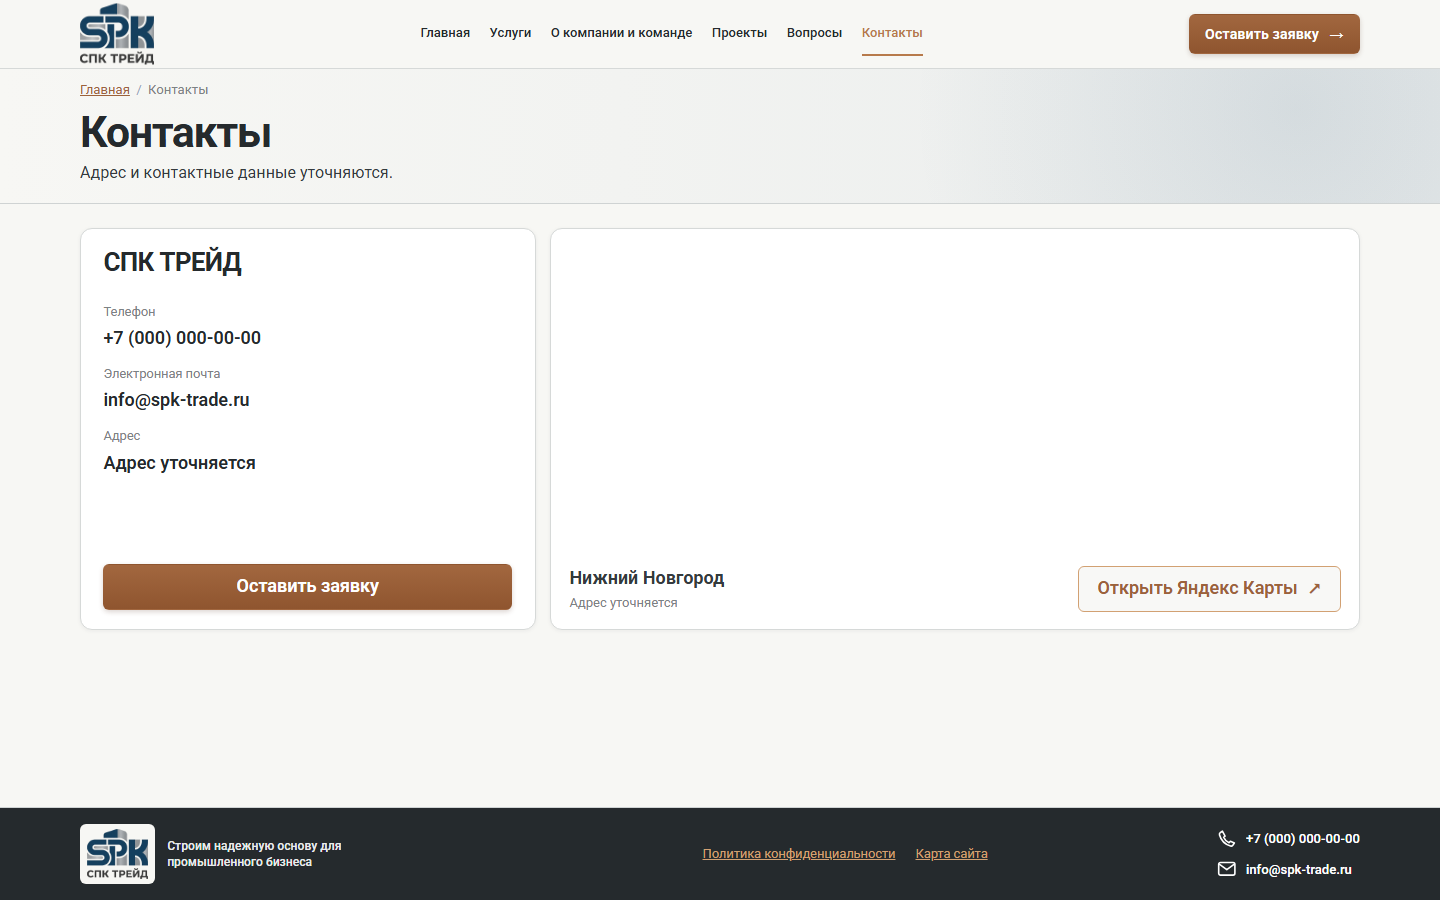
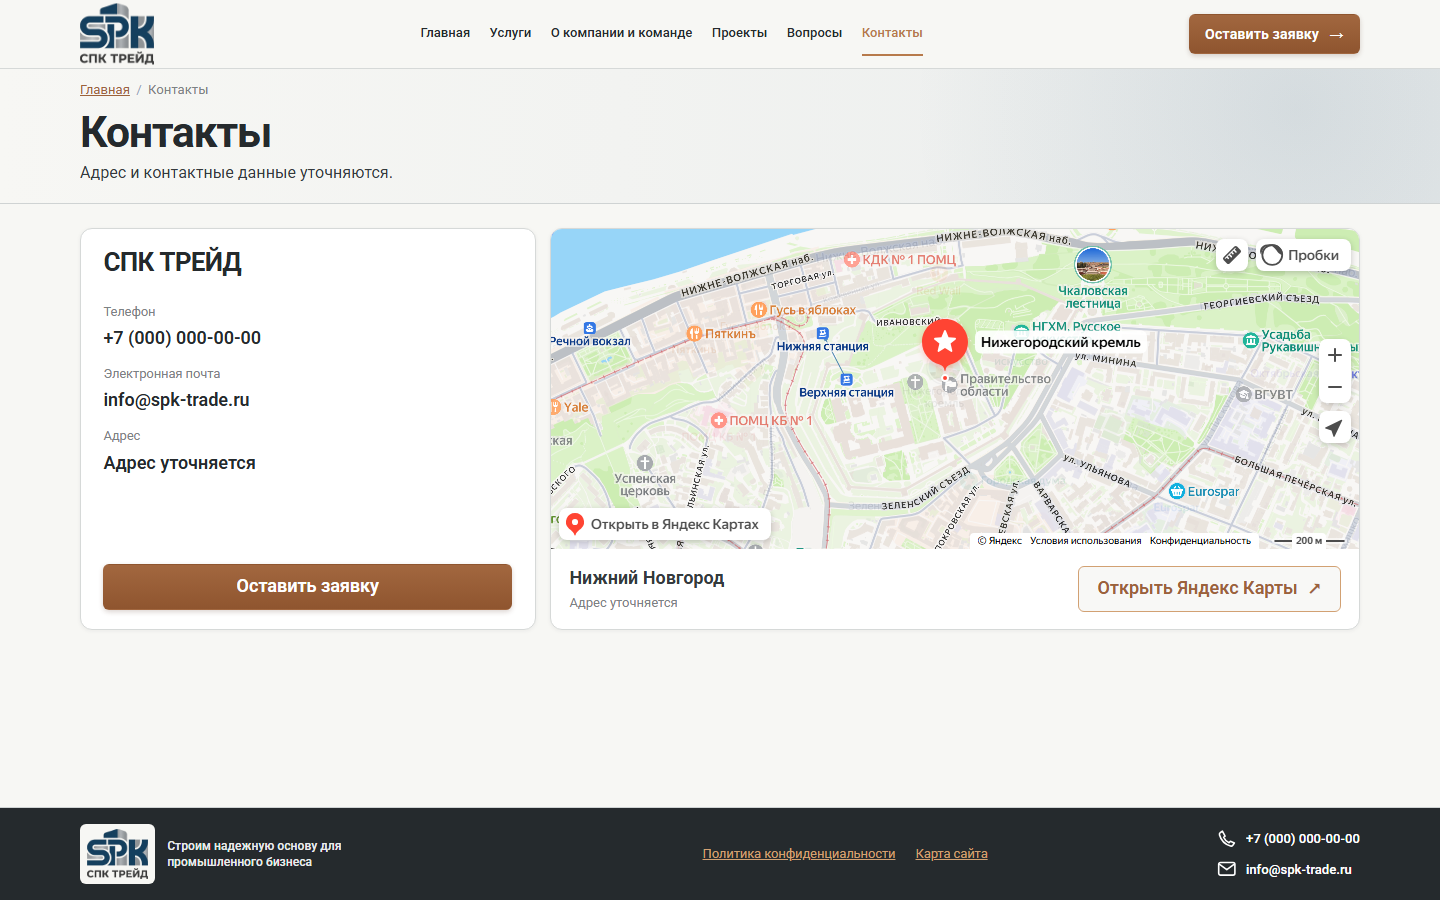
Подтвердить очистку подписей и проверку опубликованных страниц

Changed region(s): [[0.375, 0.2489, 0.9688, 0.6222]]

diff --git a/qa/REPORT.md b/qa/REPORT.md
@@ -2,7 +2,9 @@
 
 ## Редакция 4 · 28.10.2026 — проверка служебных подписей
 
-**Код: PASS. Сборка: PASS. Публикация: ожидает запуска.**
+**Код: PASS. Сборка: PASS. Публикация: PASS.**
+
+Опубликован коммит `a999873` из `codex/spk-prototype-v1`. [GitHub Actions 40722028950](https://github.com/bogatovaprof-hub/spk-website/actions/runs/40722028950) завершился с `success` (`build` и `deploy`). После публикации на `https://bogatovaprof-hub.github.io/spk-website/` повторена браузерная проверка всех 21 маршрутов: нежелательные служебные фразы и утечки перечисленных внутренних полей не обнаружены. Проекты, контакты и страница конфиденциальности проверены на 360/390/768/1122/1440 px; подпись удалена, пометка адреса сохранена, ошибок JS нет.
 
 ### Изменения и результат проверки текста
 
@@ -29,7 +31,7 @@
 | Ошибки JS при отдельной проверке | 0 |
 | `git diff --check` | PASS |
 
-Визуально просмотрен итоговый снимок контактов 1440 px. В локальном снимке область внешней карты белая: подтверждено наличие iframe, отрисовка картографических данных локально не подтверждена. URL карты содержит ранее выбранную временную точку; она не подтверждает адрес организации. Отправка заявок остаётся неподключённой, уведомление об этом сохранено.
+Визуально просмотрен итоговый снимок контактов 1440 px. В локальном снимке область внешней карты была белой; после публикации карта отрисовалась, что подтверждено новым публичным снимком `contacts-base.png`. На карте осталась ранее выбранная временная точка, рядом отображается «Адрес уточняется»; эта точка не подтверждает адрес организации. Отправка заявок остаётся неподключённой, уведомление об этом сохранено.
 
 ## Редакция 3 · 28.10.2026 — фото сверху, текст снизу
 
